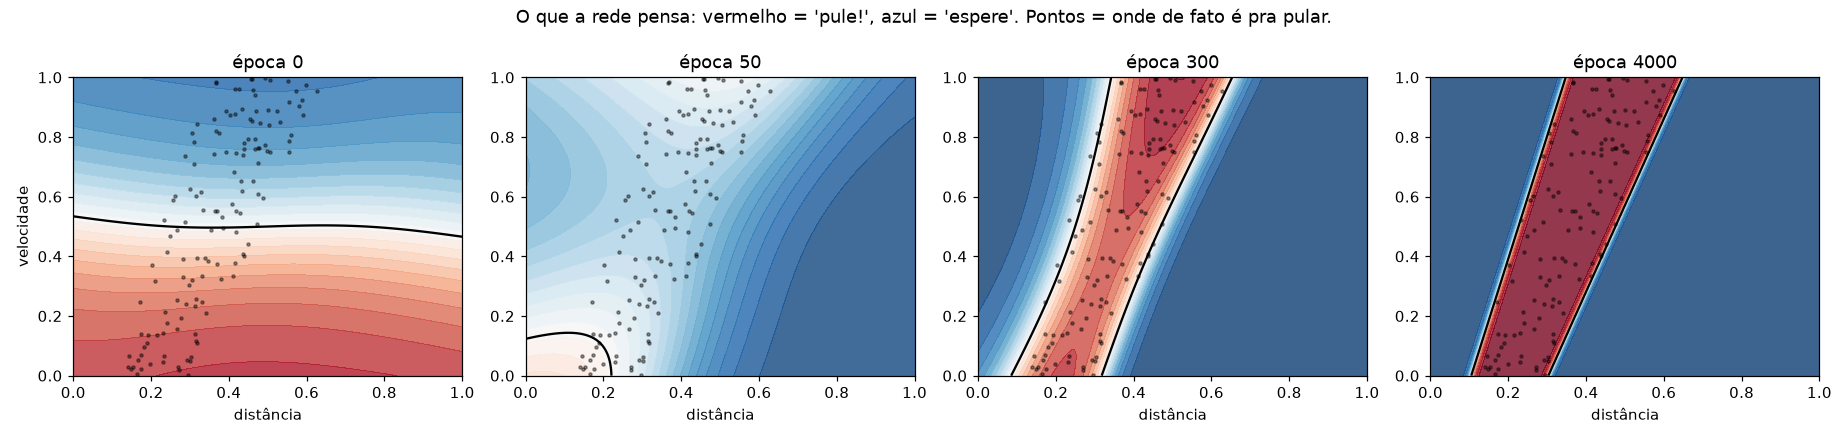
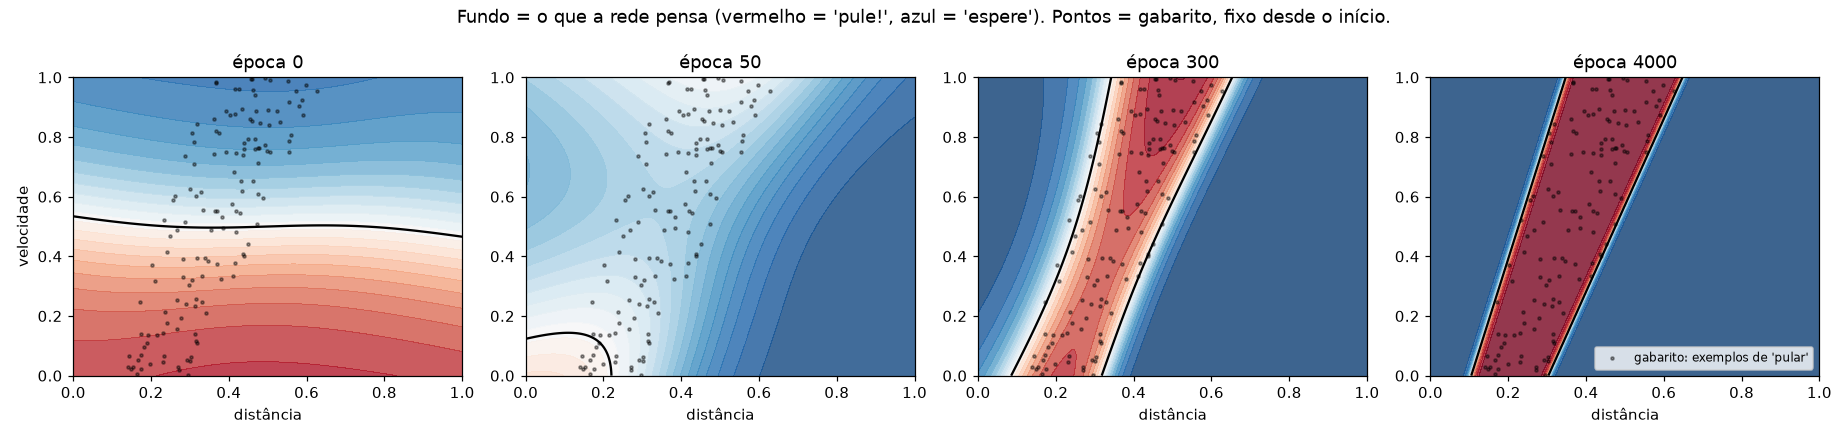
Lição 1: deixa claro que os pontos dos gráficos são o gabarito
Os pontos são os exemplos de treino respondidos antes do treino; o que
muda é o fundo colorido. O README principal também explica que o dino não
aprende a enxergar: ele recebe 6 sensores prontos e aprende o que fazer.

Changed region(s): [[0.2468, 0.0, 0.7711, 0.0591], [0.8636, 0.7682, 0.987, 0.8568]]

diff --git a/licoes/01-neuronio-e-gradiente/treinar_do_zero.py b/licoes/01-neuronio-e-gradiente/treinar_do_zero.py
@@ -284,11 +284,13 @@ def plot_fronteiras(fotos, X, y):
         D, V, prob = grade_de_previsao(fotos[ep])
         ax.contourf(D, V, prob, levels=20, cmap="RdBu_r", vmin=0, vmax=1, alpha=0.8)
         ax.contour(D, V, prob, levels=[0.5], colors="k", linewidths=1.5)
-        ax.scatter(X[y[:, 0] == 1, 0], X[y[:, 0] == 1, 1], s=4, c="k", alpha=0.4)
+        ax.scatter(X[y[:, 0] == 1, 0], X[y[:, 0] == 1, 1], s=4, c="k", alpha=0.4, label="gabarito: exemplos de 'pular'")
         ax.set_title(f"época {ep}")
         ax.set_xlabel("distância")
     axs[0].set_ylabel("velocidade")
-    fig.suptitle("O que a rede pensa: vermelho = 'pule!', azul = 'espere'. Pontos = onde de fato é pra pular.")
+    axs[-1].legend(loc="lower right", fontsize=8)
+    fig.suptitle("Fundo = o que a rede pensa (vermelho = 'pule!', azul = 'espere'). "
+                 "Pontos = gabarito, fixo desde o início.")
     fig.tight_layout()
     fig.savefig(os.path.join(SAIDA, "04_fronteiras.png"), dpi=110)
     plt.close(fig)
@@ -312,7 +314,8 @@ def plot_neuronio_unico(X, y, Xn):
     fig, ax = plt.subplots(figsize=(5, 4.5))
     ax.contourf(D, V, prob, levels=20, cmap="RdBu_r", vmin=0, vmax=1, alpha=0.8)
     ax.contour(D, V, prob, levels=[0.5], colors="k")
-    ax.scatter(X[y[:, 0] == 1, 0], X[y[:, 0] == 1, 1], s=4, c="k", alpha=0.4)
+    ax.scatter(X[y[:, 0] == 1, 0], X[y[:, 0] == 1, 1], s=4, c="k", alpha=0.4, label="gabarito: exemplos de 'pular'")
+    ax.legend(loc="lower right", fontsize=8)
     ax.set_title(f"Neurônio único: acurácia {acc:.0%}\n(só consegue uma linha reta)")
     ax.set_xlabel("distância")
     ax.set_ylabel("velocidade")
@@ -355,7 +358,8 @@ class Replay:
         self.imagem = self.ax_rede.imshow(prob, origin="lower", extent=(0, 1, 0, 1), aspect="auto",
                                           cmap="RdBu_r", vmin=0, vmax=1, alpha=0.85)
         self.contorno = None
-        self.ax_rede.scatter(X[y[:, 0] == 1, 0], X[y[:, 0] == 1, 1], s=4, c="k", alpha=0.4)
+        self.ax_rede.scatter(X[y[:, 0] == 1, 0], X[y[:, 0] == 1, 1], s=4, c="k", alpha=0.4, label="gabarito: exemplos de 'pular'")
+        self.ax_rede.legend(loc="lower right", fontsize=8)
         self.ax_rede.set_xlabel("distância")
         self.ax_rede.set_ylabel("velocidade")
         self.ax_rede.set_title("O que a rede pensa: vermelho = 'pule!', azul = 'espere'")

diff --git a/README.md b/README.md
@@ -209,6 +209,12 @@ dino-ia-estudo/
 **Alguém ensina a regra para a IA?**
 Não. Em nenhuma lição a IA recebe a regra "pule quando o cacto estiver perto". Na lição 1, a regra existe no código só para gerar 600 exemplos já respondidos, e a rede aprende com os exemplos sem nunca ver a regra. Nas lições 3 e 4 nem isso: a IA só recebe uma nota ou uma recompensa, que diz se deu certo, nunca como fazer.
 
+**O dino aprende sozinho a enxergar onde estão os obstáculos?**
+Não, e isso é proposital. Em nenhuma lição o dino vê a tela. O código do jogo mede tudo e entrega 6 números prontos: distância, largura, altura e elevação do próximo obstáculo, a altura do dino e a velocidade. É como dar a ele um sensor de distância em vez de olhos. O que ele aprende sozinho é **o que fazer** com esses números: quando pular, quando abaixar, quando esperar. Aprender a enxergar a partir dos pixels da tela, como a DeepMind fez com jogos de Atari, exige uma rede convolucional e muito mais treino. É o próximo nível deste curso.
+
+**E a lição 1, então?**
+A lição 1 nem tem dino jogando. É um exercício com exemplos prontos (o *gabarito*, os pontos dos gráficos) para ver o gradiente funcionando de perto. Quem aprende de verdade a jogar, sem ninguém saber a resposta, são os dinos das lições 3 e 4.
+
 **Então o aprendizado é aleatório?**
 Só em parte. Os pesos começam sorteados em todas as lições. Na lição 1 e na 4, daí em diante o gradiente calcula para que lado mexer cada peso, sem sorteio. Na lição 3, as mutações são sorteadas, mas a seleção não: os dinos que vão mais longe têm filhos. O acaso propõe e a nota escolhe. Por isso cada treino dá números diferentes, mas a regra principal ("longe = não pule") sempre aparece.
 

diff --git a/licoes/01-neuronio-e-gradiente/README.md b/licoes/01-neuronio-e-gradiente/README.md
@@ -41,6 +41,14 @@ A resposta certa é uma **faixa**: se o cacto estiver perto demais, já é tarde
 
 A rede **nunca vê essa regra**. Ela só recebe 600 exemplos (os pontos acima) e precisa descobrir o padrão sozinha.
 
+### O que são os pontos nos gráficos
+
+São o **gabarito**. Antes de treinar, o script sorteia 600 situações e usa a regra verdadeira para responder cada uma. Daí em diante, nos gráficos da rede, os pontos pretos são os 137 exemplos marcados como "pular" (os 463 "não pular" ficam de fora para não poluir).
+
+Os pontos **nunca mudam**. O que muda durante o treino é o **fundo colorido**: a resposta da rede para cada lugar do plano. Treinar é fazer o fundo ficar vermelho onde estão os pontos e azul no resto.
+
+Isso se chama **aprendizado supervisionado**: as respostas dos exemplos são conhecidas desde o início, e a rede aprende comparando o que respondeu com o gabarito. Nas lições 3 e 4 não existe gabarito; o dino só recebe uma nota ou uma recompensa.
+
 ---
 
 ## 2. A rede
